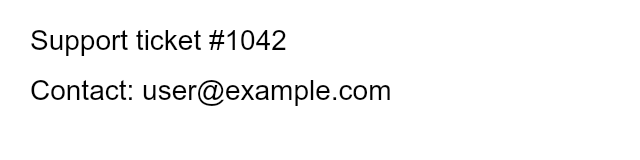
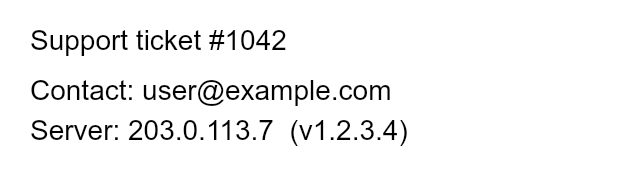
Add IPv4 detector with version/octet guards and doc-range confidence

Changed region(s): [[0.0312, 0.4062, 0.6562, 0.75], [0.0312, 0.1562, 0.4688, 0.3438]]

diff --git a/tests/network.test.ts b/tests/network.test.ts
@@ -1,0 +1,38 @@
+import { describe, it, expect } from 'vitest';
+import { ipv4Detector } from '../src/detectors/network';
+import type { Word } from '../src/detectors/types';
+
+const w = (text: string, x = 0): Word => ({ text, box: { x, y: 10, w: text.length * 8, h: 16 }, conf: 90 });
+
+describe('ipv4 detector', () => {
+  it('flags a valid IPv4 word with its box', () => {
+    const f = ipv4Detector([w('IP:'), w('198.18.0.7', 50)], {});
+    expect(f).toHaveLength(1);
+    expect(f[0]).toMatchObject({ type: 'ip', box: { x: 50, y: 10, w: 80, h: 16 }, source: 'rules' });
+    expect(f[0].confidence).toBeGreaterThanOrEqual(0.8);
+  });
+  it('flags IPs wrapped in punctuation', () => {
+    expect(ipv4Detector([w('(198.18.0.7),')], {})).toHaveLength(1);
+    expect(ipv4Detector([w('198.18.0.7:8080')], {})).toHaveLength(1);
+  });
+  it('gives documentation ranges lower confidence but still flags them', () => {
+    const [doc] = ipv4Detector([w('203.0.113.7')], {});
+    const [real] = ipv4Detector([w('198.18.0.7')], {});
+    expect(doc).toBeDefined();
+    expect(doc.confidence).toBeLessThan(real.confidence);
+    expect(doc.confidence).toBeGreaterThan(0.3);
+    for (const ip of ['192.0.2.1', '198.51.100.9']) expect(ipv4Detector([w(ip)], {})).toHaveLength(1);
+  });
+  it('rejects invalid octets', () => {
+    for (const t of ['999.1.1.1', '256.1.1.1', '1.2.3.300', '1.2.3', '1.2.3.4.5'])
+      expect(ipv4Detector([w(t)], {})).toEqual([]);
+  });
+  it('rejects version-number lookalikes', () => {
+    expect(ipv4Detector([w('v1.2.3.4')], {})).toEqual([]);
+    expect(ipv4Detector([w('V1.2.3.4')], {})).toEqual([]);
+    expect(ipv4Detector([w('==1.2.3.4')], {})).toEqual([]);
+    expect(ipv4Detector([w('version'), w('2.0.1.5')], {})).toEqual([]);
+    expect(ipv4Detector([w('Version:'), w('2.0.1.5')], {})).toEqual([]);
+    expect(ipv4Detector([w('=='), w('2.0.1.5')], {})).toEqual([]);
+  });
+});

diff --git a/src/detectors/network.ts b/src/detectors/network.ts
@@ -1,0 +1,21 @@
+import type { Detector } from './types';
+
+const IPV4 = /(?<![\d.])(\d{1,3})\.(\d{1,3})\.(\d{1,3})\.(\d{1,3})(?![\d]|\.\d)/;
+const VERSION_PREFIX = /(?:^|[^A-Za-z0-9])v$|==$/i;
+const VERSION_WORD = /^(?:version|ver\.?|v)[:=]?$|^==$/i;
+
+function isDocRange(o: number[]): boolean {
+  const [a, b, c] = o;
+  return (a === 192 && b === 0 && c === 2) || (a === 198 && b === 51 && c === 100) || (a === 203 && b === 0 && c === 113);
+}
+
+export const ipv4Detector: Detector = (words) =>
+  words.flatMap((w, i) => {
+    const m = IPV4.exec(w.text);
+    if (!m) return [];
+    const octets = m.slice(1, 5).map(Number);
+    if (octets.some((o) => o > 255)) return [];
+    if (VERSION_PREFIX.test(w.text.slice(0, m.index))) return [];
+    if (i > 0 && VERSION_WORD.test(words[i - 1].text)) return [];
+    return [{ type: 'ip', box: w.box, confidence: isDocRange(octets) ? 0.5 : 0.9, source: 'rules' as const }];
+  });

diff --git a/src/main.ts b/src/main.ts
@@ -1,6 +1,7 @@
 import { recognise } from './ocr';
 import { runDetectors, type Finding } from './detectors/types';
 import { emailDetector } from './detectors/contact';
+import { ipv4Detector } from './detectors/network';
 import { apply } from './redact';
 
 const $ = <T extends HTMLElement>(id: string) => document.getElementById(id) as T;
@@ -23,7 +24,7 @@ async function handle(f: File) {
     const ctx = view.getContext('2d')!;
     ctx.drawImage(bitmap, 0, 0);
     view.hidden = false;
-    findings = runDetectors(await recognise(f), [emailDetector]);
+    findings = runDetectors(await recognise(f), [emailDetector, ipv4Detector]);
     ctx.strokeStyle = 'red';
     ctx.lineWidth = 3;
     for (const { box } of findings) ctx.strokeRect(box.x, box.y, box.w, box.h);
